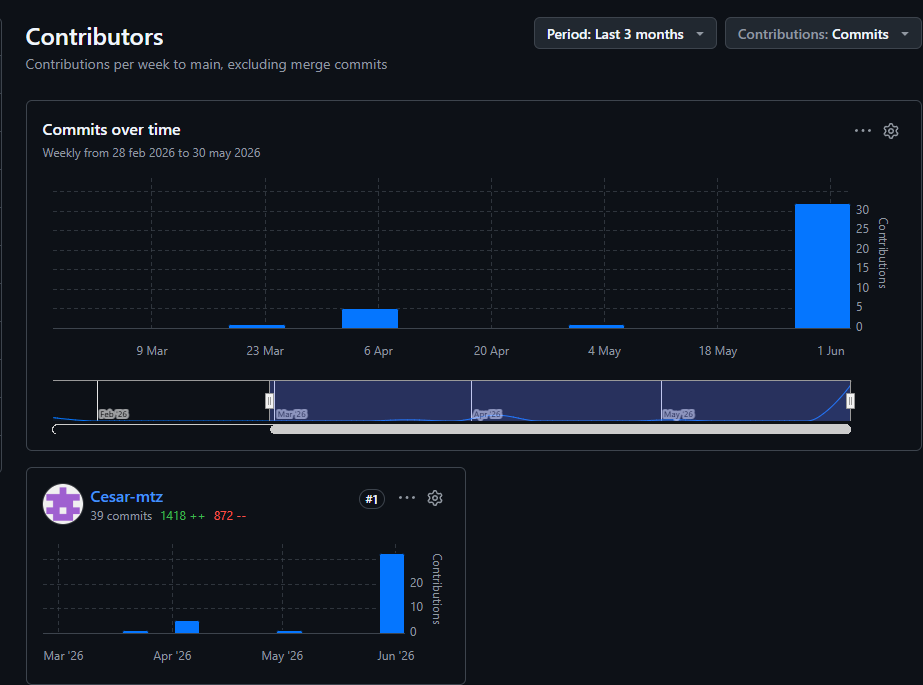
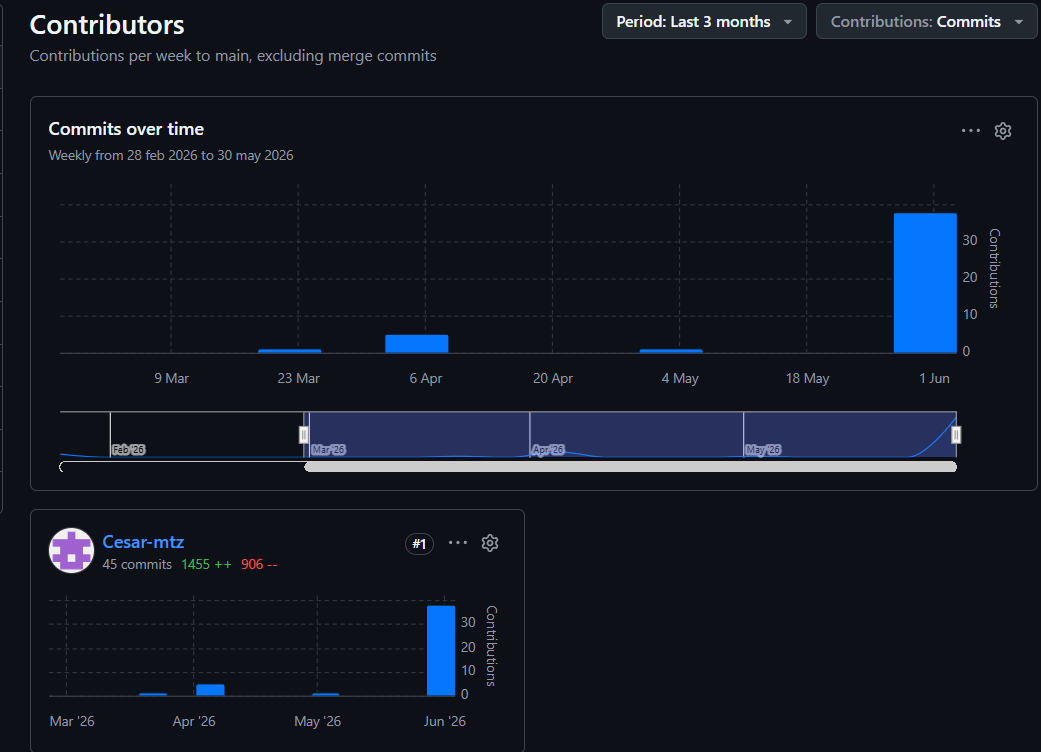
Actualización de formato e imágen

diff --git a/README.md b/README.md
@@ -66,7 +66,7 @@ En etapas posteriores se trabajó con métodos de correlación no paramétrica y
 + 📍 Aplicar prueba ANOVA
 + 📍 Aplicar prueba paramétrica de heterocedasticidad "Breusch - Pragan" 
    en modelo de regresión
-+ 📍 Aplicar comandos de estimacion de residuales, varianza, desviación estándar
++ 📍 Aplicar comandos de estimación de residuales, varianza, desviación estándar
 + 📍 Generar línea de tendencia en plot
 
 